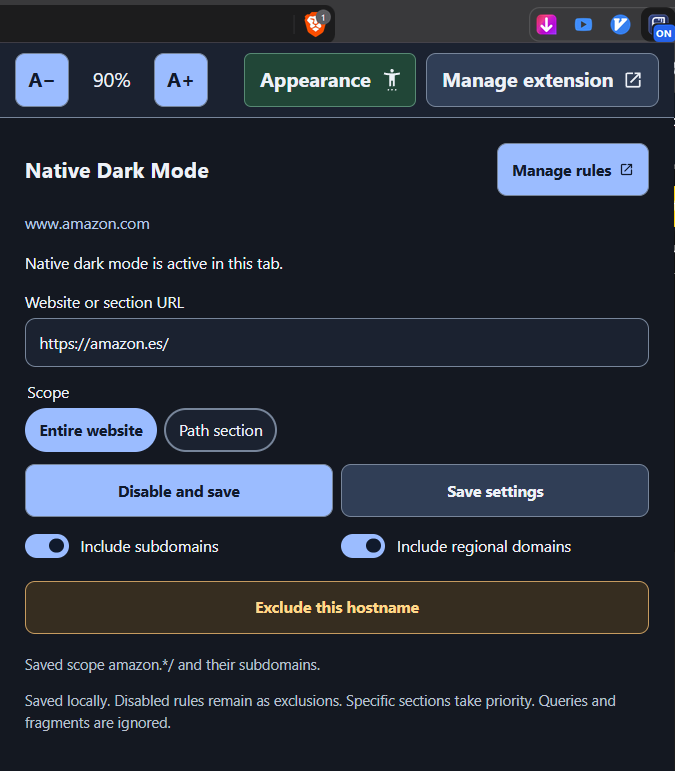
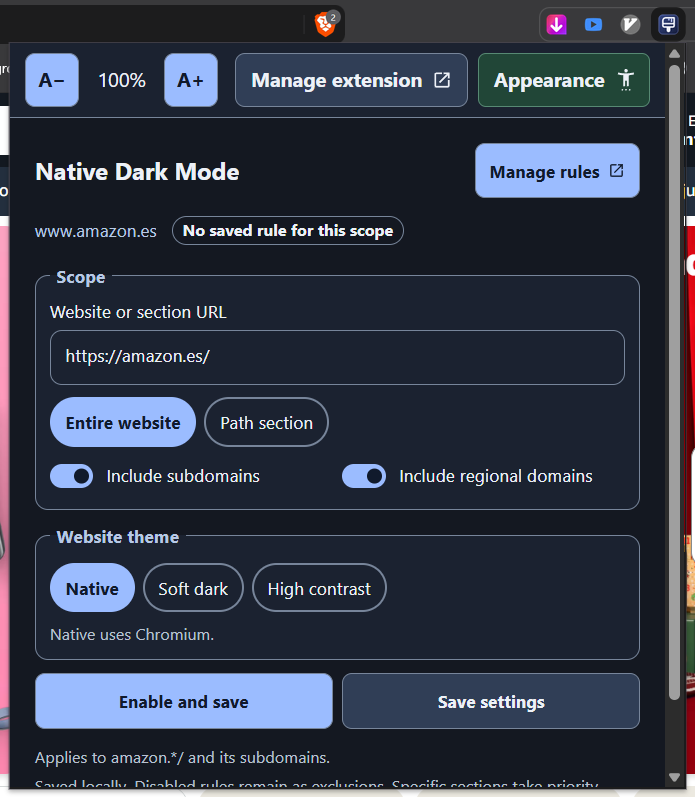
Release Native Dark Mode 0.7.0

diff --git a/AGENTS.md b/AGENTS.md
@@ -32,11 +32,12 @@ Keep the English [README.md](README.md) and Spanish [README.es.md](README.es.md)
 - Rules apply to HTTP and HTTPS. A path rule matches the exact path and, by default, its descendants at a segment boundary. An exact-only root rule has a distinct identity from an entire-website rule. Query strings and fragments do not contribute to rule identity. Preserve explicit ports and handle old stored rules through the existing normalizer.
 - A longer matching path wins. At the same path, non-regional rules take precedence, followed by more specific host matches and exact rules ahead of subdomain rules. A disabled winning rule is an exclusion. The base domain and its `www` alias share an identity for ordinary rules, regardless of the subdomain setting. Prefer the explicit base rule when old settings contain both aliases. Regional rules match a registered name across recognized suffixes and retain any specific subdomain, with `www` treated as an alias of the base domain. A more specific regional subdomain wins over a broader regional rule. The base-domain switch saves a canonical rule for the base domain and its subdomains. Keep regional matching based on the bundled suffix data.
 - `chrome.storage.local` contains `rules`, `trash`, `ruleListPreferences`, `uiLanguage`, `uiTheme`, `uiPopupTextScale`, `uiManagerTextScale`, and `uiHighContrast`. The legacy `uiTextScale` initializes either view until it saves its own setting. The controller keeps transient per-tab state in `chrome.storage.session` under `tab:<id>`. Route persistent rule changes through `RuleManager` so concurrent edits, imports, restores, and deletions stay ordered.
-- Removing a rule moves it to the trash. Restoring it preserves its settings and fails safely if the scope already exists. Emptying the trash affects only entries covered by the user's confirmation.
+- Removing a rule moves it to Trash, below the saved rules list. The popup and rule editor confirm the saved scope before removing it. In the popup, inherited rules show a disabled trash action with an explanation, and local exclusions can be removed to restore inheritance. Group removal confirms the whole group, including rules hidden by search, and moves only the confirmed IDs in one storage write. Restoring preserves rule settings and fails safely if the scope already exists. Emptying Trash affects only confirmed entries.
 - Domain grouping is a display feature in the full-page manager. Groups start collapsed and remember their state while the list is rebuilt. The bulk control applies to visible groups. Regional rules and their hostname exceptions can share a group without changing matching precedence. Display creation dates only when they are available.
 - Backups use format `native-dark-mode-rules` and cover the rule list. Version `1` carries the original scopes, version `2` supports custom presets, and version `3` also supports exact-only paths. The import default adds new rules and keeps existing matches. Users can also update matches or replace the list. Full replacement lists the rules that would be deleted, requires confirmation, and rejects newly discovered removals until the user reviews them. Preserve the existing size and rule limits and validate before writing.
 - A missing rule preset means native. Custom themes follow the winning rule for the top-level URL and are applied independently inside eligible frames. Clear the previous renderer before switching. Keep frame messages limited to the active preset and leave excluded documents free of style overrides and mutation observers.
 - Appearance affects the extension UI. Website darkening is controlled separately by rules. The UI follows the system theme by default, supports 75% to 200% text scaling, and offers high contrast. Keep the text size controls steady in both toolbars. The popup puts theme and contrast in the Appearance menu, while the manager exposes them directly. Preserve native controls, keyboard focus, accessible names and descriptions, wrapping at large text sizes, and reduced-motion behavior.
+- Keep the URL, scope chips, and scope switches in the same card in both views. Keep Include subpaths last. On wide layouts, the editor stays sticky beside the list and Trash without its own scrollbar. Tooltips open after 800 ms on hover, open immediately on keyboard focus, stay visible while hovered, and can be dismissed by click or Escape.
 - The nine flat interface catalogs under `extension/translations/` are `en`, `es`, `fr`, `pt_PT`, `it`, `zh_CN`, `ja`, `ko`, and `de`. Keep manifest messages in Chromium's required format under `extension/_locales/`. Use `data-i18n` for visible text, `data-i18n-label` for accessible labels, and `t()` for dynamic strings. Keep interpolation variables consistent and synchronize the shared title across both catalogs. The launchers have separate English and Spanish messages.
 - The launchers pass `--silent-debugger-extension-api` to the target browser. The flag applies to all debugger extensions in that session when supported. Keep the installers native to each platform, use `--output-directory` for temporary test artifacts, and preserve browser discovery, location reporting, and the interactive Enter prompt.
 - Chromium currently decides how images are darkened. Per-site native image controls are deferred. See [IMAGE-RESEARCH.md](IMAGE-RESEARCH.md) for the experimental launch-time option and its limits.

diff --git a/docs/RELEASE-0.7.0.md b/docs/RELEASE-0.7.0.md
@@ -1,0 +1,29 @@
+# Native Dark Mode 0.7.0
+
+## New features
+
+- Choose **Native**, **Soft dark**, or **High contrast** per website or path. Existing rules default to Native.
+- Apply custom themes to eligible embedded frames and open shadow roots. Images, videos, and canvas pixels retain their original appearance.
+- Switch website themes in open tabs without reloading. The popup opens independently of page repainting.
+- Turn off **Include subpaths** to match only the selected path, including the home page. Existing path rules still include descendants.
+- Keep a specific subdomain across regional suffixes, such as `fonts.google.*`, or use **Apply to all of google.com** to cover the base domain and its subdomains. Combine these options to cover regional domain families.
+- Move a saved rule to Trash from the popup or rule editor after confirming its scope. Remove an entire domain group with one confirmation, including rules hidden by search.
+- Use independent text sizes for the popup and rule manager. Both views share theme and high-contrast preferences.
+
+## Fixes and interface improvements
+
+- Improve custom theme coverage for light gradients, spread shadows, dynamic content, and surfaces about to scroll into view.
+- Improve contrast on themed surfaces, blended backgrounds, headings, product badges, and promotional labels. Preserve image-backed backgrounds where possible.
+- Keep theming dynamic content after elements are removed, restore original styling when switching away, and verify that the selected preset was applied.
+- Suggest the base URL for new website rules and the current path for section rules. Remove query strings and fragments from suggestions, wrap long URLs automatically, and correctly replace a selected section when saving the entire website.
+- Treat a base domain and its `www` alias as one rule, including exclusions. Preserve the explicit base rule when importing or normalizing older settings containing both forms.
+- Make inherited scope clear with a labeled, locked switch. Show the scope of broad disable actions and distinguish them from local exclusions. Allow switching between existing parent and subdomain rules while preserving their settings.
+- Show Enabled, Disabled, and No saved rule as distinct popup states. Use a separate color for re-enabling a saved rule. Keep the action row steady when saving, switching themes, or toggling a saved rule.
+- Keep the trash action visible but disabled for inherited rules, with a tooltip pointing to the manager. Removing a local exclusion restores the applicable inherited rule.
+- Combine the URL, scope chips, and scope switches in one card. Keep Include subpaths last and show unavailable regional options as disabled.
+- Improve headings, switch alignment, and editor contrast. Reorganize the appearance controls and open the popup’s Appearance menu by activation.
+- Give tooltips a distinct background and an 800 ms hover delay. Keep them readable under the pointer and allow dismissal by click or Escape. Keyboard focus shows them immediately.
+- Keep the editor sticky beside the list and Trash on wide screens. Align Trash with the saved rules list and animate the card when emptying it, respecting reduced motion.
+- Update backup button labels and icons. Backup version 3 preserves exact-only paths, version 2 supports custom themes, and version 1 remains compatible.
+- Simplify the native controller code and store interface translations in flat catalogs. Keep Chromium manifest messages in their required format.
+- Refresh both README screenshots and document AI assistance, rule behavior, backups, and removal.

diff --git a/README.es.md b/README.es.md
@@ -6,7 +6,9 @@
 
 Usa el modo oscuro integrado en Chromium en las webs y secciones que elijas. Guarda una regla una vez y la extensión la aplicará cuando vuelvas.
 
-La **versión 0.6.0** incorpora un icono inspirado en DevTools, una interfaz más accesible, grupos de dominios plegables y una vista previa con confirmación al reemplazar reglas.
+La **versión 0.7.0** añade los temas web Oscuro suave y Alto contraste, reglas de dominio y ruta más precisas y confirmaciones de borrado en el popup y el gestor. [Notas de la versión en inglés](docs/RELEASE-0.7.0.md)
+
+Este proyecto se desarrolló con la ayuda de IA mediante OpenAI Codex.
 
 ## Instalar la extensión
 
@@ -31,11 +33,11 @@ Haz clic en una captura para abrirla a resolución completa.
 
 ### Panel de la extensión
 
-<a href="docs/screenshots/popup.png"><img src="docs/screenshots/popup.png" width="1200" style="max-width: 100%; height: auto;" alt="Panel con una regla regional de Amazon, controles de tamaño del texto y acceso al gestor de reglas"></a>
+<a href="docs/screenshots/popup.png"><img src="docs/screenshots/popup.png" width="1200" style="max-width: 100%; height: auto;" alt="Panel con una regla regional de Amazon sin guardar, controles de tamaño del texto y acceso al gestor de reglas"></a>
 
 ### Gestor de reglas
 
-<a href="docs/screenshots/rule-manager.png"><img src="docs/screenshots/rule-manager.png" width="1200" style="max-width: 100%; height: auto;" alt="Gestor con editor, búsqueda, orden, estado y fecha de añadido, copias JSON y papelera"></a>
+<a href="docs/screenshots/rule-manager.png"><img src="docs/screenshots/rule-manager.png" width="1200" style="max-width: 100%; height: auto;" alt="Gestor con editor, búsqueda, orden, estados de las reglas guardadas y copias JSON"></a>
 
 ## Usar la extensión
 
@@ -82,7 +84,7 @@ La [extensión Manifest V3](extension/manifest.json) tiene un panel, un gestor d
 
 La extensión usa permisos de depuración para el modo nativo, acceso a sitios HTTP y HTTPS para evaluar las reglas y aplicar los temas personalizados, el permiso `scripting` para aplicar esos temas en pestañas que ya estaban abiertas y almacenamiento para guardar las reglas en el dispositivo. No hace peticiones a servidores externos.
 
-Los temas personalizados conservan los píxeles de imágenes, vídeos y canvas, así como las imágenes de fondo. Oscurecen los degradados CSS claros sin imágenes y aplican el tema a los Shadow DOM que Chromium expone a las extensiones. El texto sobre fotografías y los marcos en los que el navegador impide la inyección pueden conservar el aspecto del sitio. Las reglas con temas personalizados se exportan como JSON en versión 2. La extensión sigue aceptando archivos de la versión 1.
+Los temas personalizados conservan los píxeles de imágenes, vídeos y canvas, así como las imágenes de fondo. Oscurecen los degradados CSS claros sin imágenes y aplican el tema a los Shadow DOM que Chromium expone a las extensiones. El texto sobre fotografías y los marcos en los que el navegador impide la inyección pueden conservar el aspecto del sitio. La extensión importa copias en las versiones 1, 2 y 3. Al exportar, usa la versión 3 si alguna regla se limita a una ruta exacta, la 2 si hay temas personalizados y la 1 en los demás casos.
 
 ## Acceso directo opcional para ocultar el aviso de depuración
 

diff --git a/README.md b/README.md
@@ -6,7 +6,9 @@
 
 Use Chromium's built-in dark mode on the websites and sections you choose. Save a rule once and the extension applies it when you return.
 
-**Version 0.6.0** adds a DevTools-inspired icon, a more accessible interface, collapsible domain groups, and a preview and confirmation for replacement imports.
+**Version 0.7.0** adds Soft dark and High contrast website themes, more precise domain and path rules, and safer removal from the popup and rule manager. [Release notes](docs/RELEASE-0.7.0.md)
+
+This project was built with AI assistance using OpenAI Codex.
 
 ## Install the extension
 
@@ -31,11 +33,11 @@ Click either screenshot to open it at full resolution.
 
 ### Extension popup
 
-<a href="docs/screenshots/popup.png"><img src="docs/screenshots/popup.png" width="1200" style="max-width: 100%; height: auto;" alt="Extension popup showing an Amazon regional rule, text size controls, and quick access to the rule manager"></a>
+<a href="docs/screenshots/popup.png"><img src="docs/screenshots/popup.png" width="1200" style="max-width: 100%; height: auto;" alt="Extension popup showing an unsaved regional rule for Amazon, text size controls, and quick access to the rule manager"></a>
 
 ### Rule manager
 
-<a href="docs/screenshots/rule-manager.png"><img src="docs/screenshots/rule-manager.png" width="1200" style="max-width: 100%; height: auto;" alt="Rule manager showing the editor, search and sorting controls, rule status and dates, JSON backups, and trash"></a>
+<a href="docs/screenshots/rule-manager.png"><img src="docs/screenshots/rule-manager.png" width="1200" style="max-width: 100%; height: auto;" alt="Rule manager showing the editor, search and sorting controls, saved rule statuses, and JSON backups"></a>
 
 ## Use the extension
 
@@ -84,7 +86,7 @@ The [Manifest V3 extension](extension/manifest.json) has a popup, a full-page ru
 
 The extension uses `debugger` for native emulation, HTTP and HTTPS site access to match URLs and apply custom themes, `scripting` to apply custom themes in tabs that were already open, and `storage` to keep rules on the device. The extension makes no external network requests.
 
-Custom themes preserve image, video, and canvas pixels and leave image-backed backgrounds in place. They darken light CSS gradients that contain no images and theme shadow roots that Chromium exposes to extensions. Text over photos and frames where the browser blocks injection can retain the site's original appearance. Rules with custom themes export as JSON version 2. The extension can still import version 1.
+Custom themes preserve image, video, and canvas pixels and leave image-backed backgrounds in place. They darken light CSS gradients that contain no images and theme shadow roots that Chromium exposes to extensions. Text over photos and frames where the browser blocks injection can retain the site's original appearance. The extension imports backup versions 1, 2, and 3. Exports use version 3 when a rule matches an exact path only, version 2 when custom themes are present, and version 1 otherwise.
 
 ## Optional launcher for the debugging banner
 
